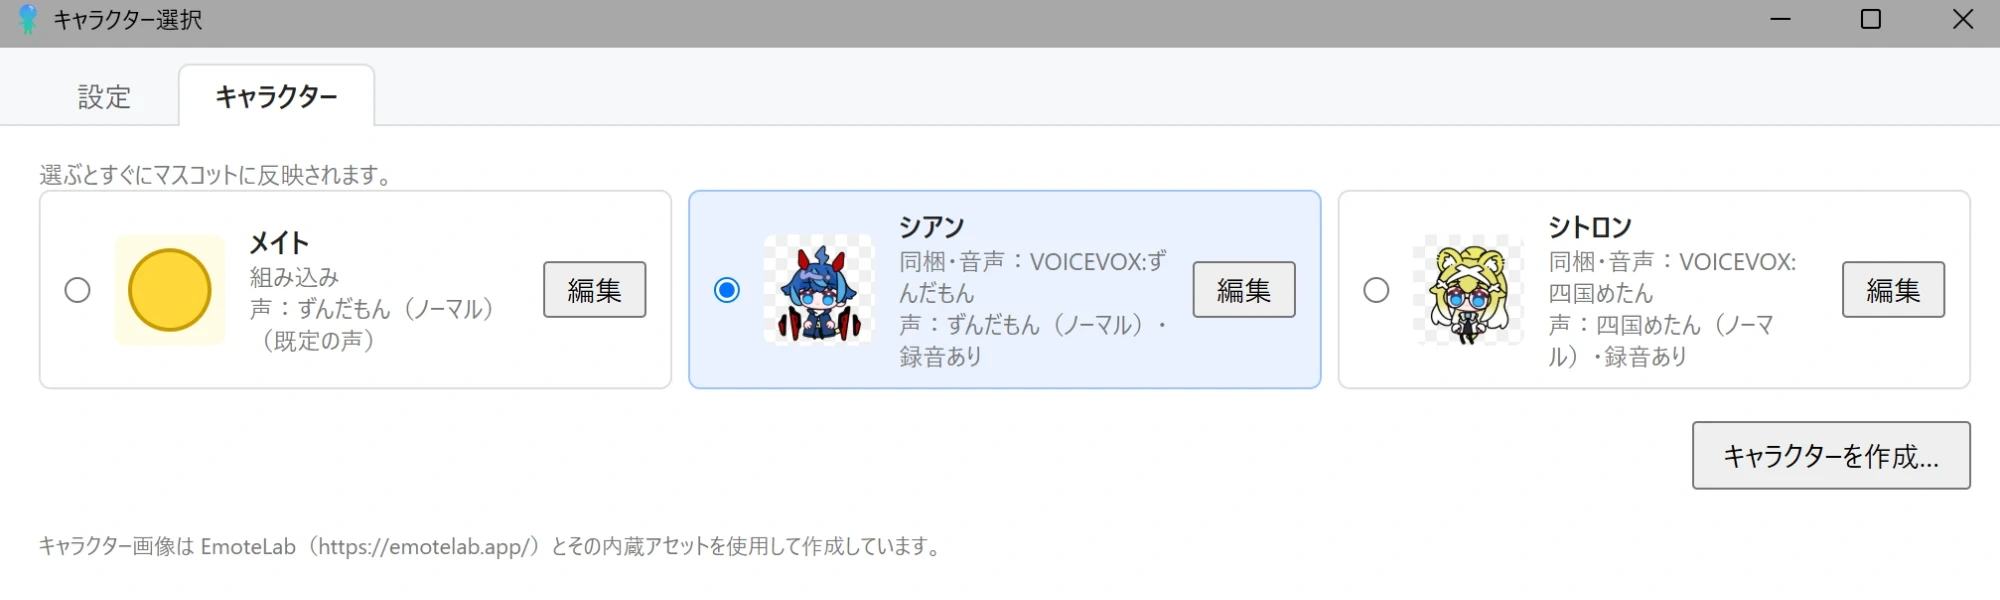
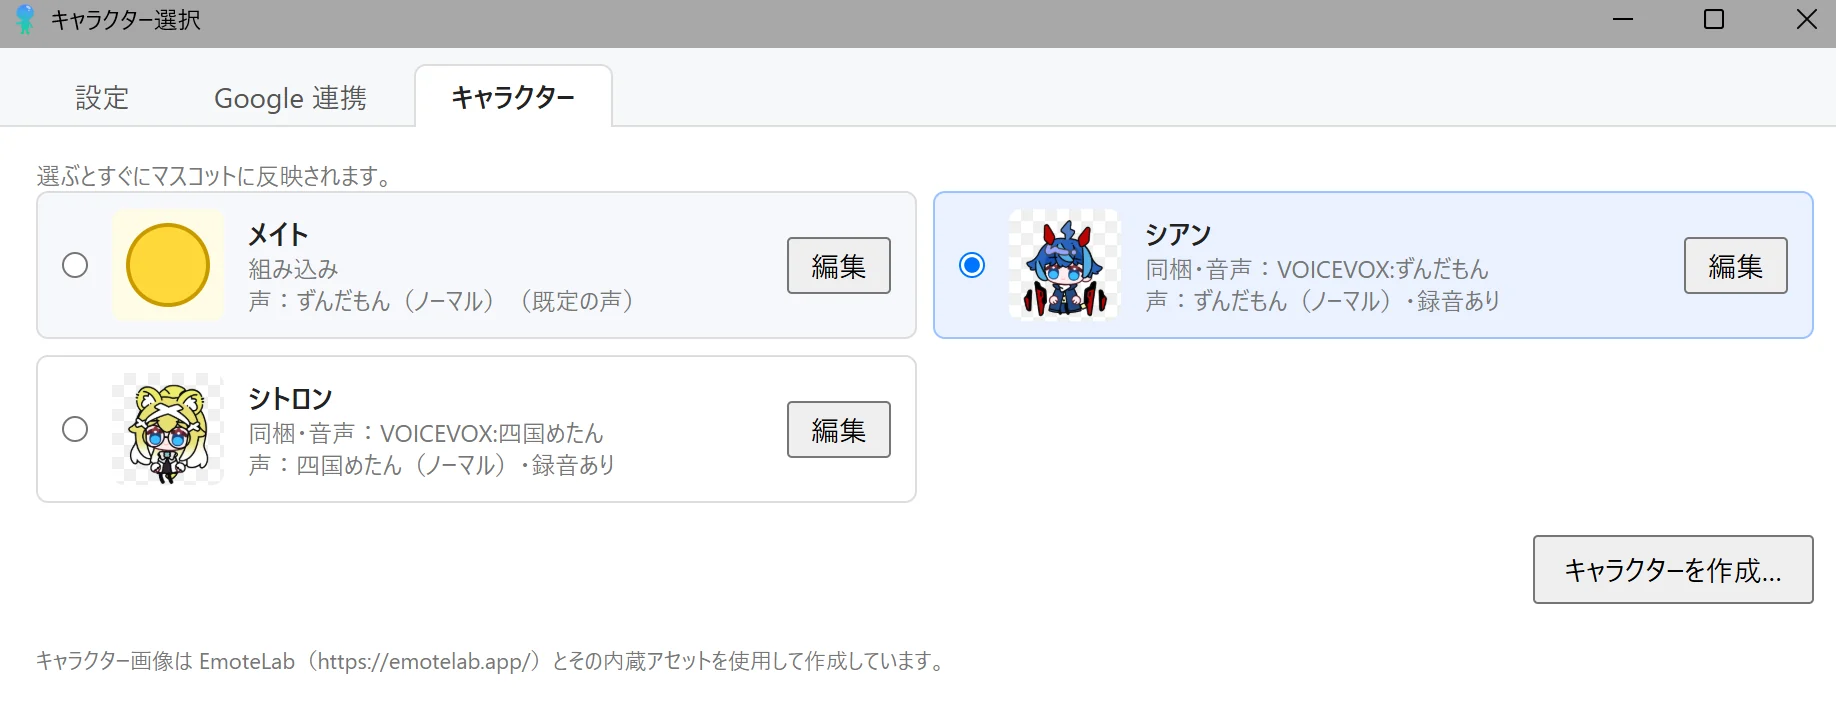
README の画面の画像を新しい画面に差し替え、「Google 連携」タブの画像を加える

diff --git a/README.md b/README.md
@@ -51,6 +51,8 @@ Windows 標準の通知は使わず、マスコット自身が知らせるので
 
 Google のデータを読むための「クライアント」（Client ID と Client Secret）をアプリに読み込んでから連携します（最初の1回だけ）。設定画面の上の「Google 連携」タブに、2 通りの手順が並んでいます。
 
+<img src="docs/images/google.webp" width="720" alt="設定画面の「Google 連携」タブ。左に「Google 連携の準備」の状態と「A. クライアントを受け取った人」（Client ID と Client Secret の欄・連携する）、右に「B. 自分でクライアントを作る」の手順 1-a〜5 が並んでいる">
+
 - **A. 開発者からクライアントを受け取った人**（5 分ほど）：受け取った Client ID と Client Secret を貼り付けて「保存」し、「連携する」を押します。
 - **B. 自分でクライアントを作る人**（30 分ほど）：各手順のボタンで Google Cloud のページを開き、プロジェクトを作る → 3 つの API（Calendar・Tasks・Gmail）を有効にする → Google Auth Platform を設定して自分をテストユーザーに追加する → クライアント（デスクトップ アプリ）を作って JSON をダウンロードする → JSON を読み込む → 連携する、の順に進めます。この方法では連携が **7 日で切れる**ので、切れる前日にマスコットがお知らせしたら、設定画面の「連携し直す」を押します。
 
